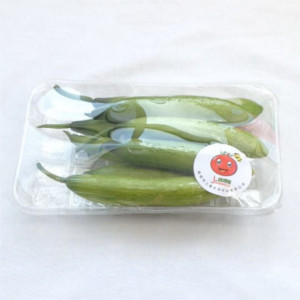
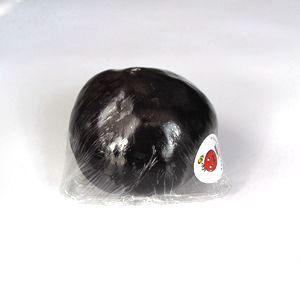
m

diff --git a/sx/greens.html b/sx/greens.html
@@ -151,7 +151,7 @@ layout: sxBase
        <a href="">
          <img src="{{ site.url }}/image/sx/ls2.jpg"/>         
        </a>
-       <p class="name">玛利亚黄瓜</p>
-       <p class="group">￥0元/500克</p>
+       <p class="name">紫圆茄</p>
+       <p class="group">￥5元/500克</p>
      </div>
   </section>
